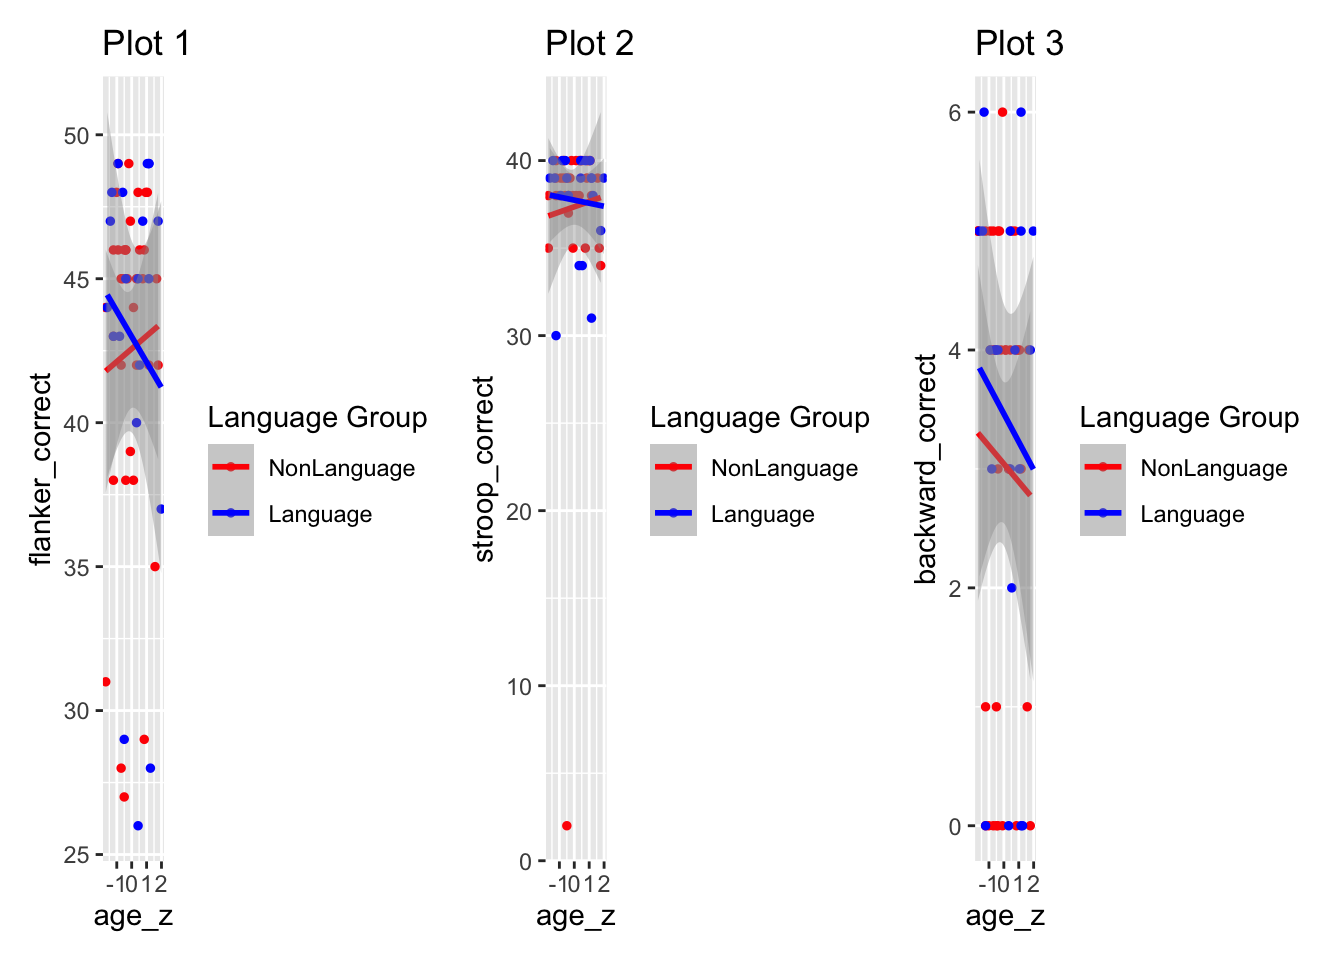
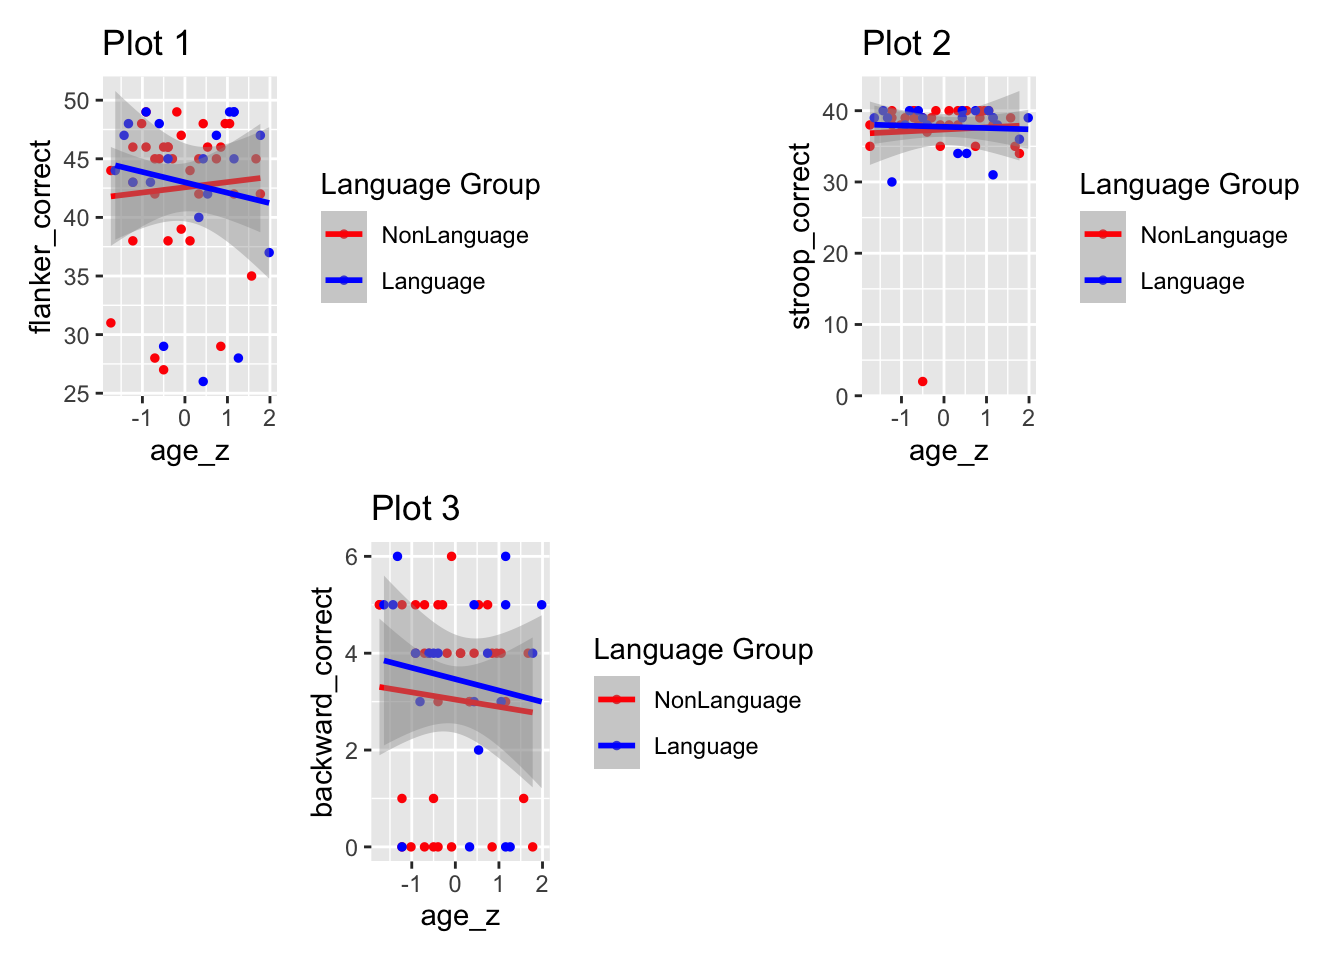
updated

Changed region(s): [[0.0, 0.0312, 0.9688, 0.9688], [0.3125, 0.9375, 0.375, 0.9688]]

diff --git a/docs/Diana-viz.html b/docs/Diana-viz.html
@@ -271,7 +271,7 @@ $(document).ready(function () {
 
 <h1 class="title toc-ignore">QP Data Analysis</h1>
 <h4 class="author">Diana Sanchez</h4>
-<h4 class="date">AJanuary 2023</h4>
+<h4 class="date">January 2023</h4>
 
 </div>
 
@@ -423,6 +423,13 @@ summary(m1)</code></pre>
 ## Residual standard error: 4.784 on 53 degrees of freedom
 ## Multiple R-squared:  0.2245, Adjusted R-squared:  0.1806 
 ## F-statistic: 5.115 on 3 and 53 DF,  p-value: 0.003503</code></pre>
+<pre class="r"><code>par(mfrow = c(2,2)) 
+plot(m1) </code></pre>
+<p><img src="Diana-viz_files/figure-html/unnamed-chunk-4-1.png" width="672" /></p>
+<pre class="r"><code>AIC(m1)</code></pre>
+<pre><code>## [1] 346.0536</code></pre>
+<pre class="r"><code>BIC(m1)</code></pre>
+<pre><code>## [1] 356.2689</code></pre>
 <pre class="r"><code>m2 = lm(stroop_correct ~ language * age * IQ, final_df)
 summary(m2)</code></pre>
 <pre><code>## 
@@ -447,6 +454,13 @@ summary(m2)</code></pre>
 ## Residual standard error: 4.825 on 49 degrees of freedom
 ## Multiple R-squared:  0.2707, Adjusted R-squared:  0.1665 
 ## F-statistic: 2.598 on 7 and 49 DF,  p-value: 0.02313</code></pre>
+<pre class="r"><code>par(mfrow = c(2,2)) 
+plot(m2) </code></pre>
+<p><img src="Diana-viz_files/figure-html/unnamed-chunk-4-2.png" width="672" /></p>
+<pre class="r"><code>AIC(m2)</code></pre>
+<pre><code>## [1] 350.5537</code></pre>
+<pre class="r"><code>BIC(m2)</code></pre>
+<pre><code>## [1] 368.9412</code></pre>
 <pre class="r"><code>m3 = lm(stroop_correct~group_language * age_z * iq_z, final_df)
 summary(m3)</code></pre>
 <pre><code>## 
@@ -651,38 +665,11 @@ plot3 &lt;- final_df %&gt;%
   scale_color_manual(labels = c(&quot;NonLanguage&quot;,&quot;Language&quot;),values = c(&quot;red&quot;,&quot;blue&quot;))
 
 library(patchwork)
-plot1 + plot2 + plot3</code></pre>
+(plot1 + plot_spacer() + plot2) / (plot_spacer() + plot3 + plot_spacer())  </code></pre>
 <pre><code>## `geom_smooth()` using formula &#39;y ~ x&#39;
 ## `geom_smooth()` using formula &#39;y ~ x&#39;
 ## `geom_smooth()` using formula &#39;y ~ x&#39;</code></pre>
 <p><img src="Diana-viz_files/figure-html/unnamed-chunk-5-1.png" width="672" /></p>
-<pre class="r"><code>plot_layout(ncol = 2)</code></pre>
-<pre><code>## $ncol
-## [1] 2
-## 
-## $nrow
-## NULL
-## 
-## $byrow
-## NULL
-## 
-## $widths
-## NULL
-## 
-## $heights
-## NULL
-## 
-## $guides
-## NULL
-## 
-## $tag_level
-## NULL
-## 
-## $design
-## NULL
-## 
-## attr(,&quot;class&quot;)
-## [1] &quot;plot_layout&quot;</code></pre>
 <pre class="r"><code>plot4 &lt;- final_df %&gt;% 
   ggplot()+
   aes(x = iq_z, y=flanker_correct,color=factor(group_language))+
@@ -938,15 +925,10 @@ background_survey_1</code></pre>
 ## 55         9-12 grade   16+ years                      French
 ## 56          4th grade   1-3 years                     English
 ## 57          5th grade 11-15 years                      German</code></pre>
-<pre class="r"><code>#background_survey_1$Experience = gsub(&quot; years&quot;,&quot;&quot;,background_survey_1$Experience)
-
-#library(stringr)
-#str_remove_all(background_survey_1$Experience, &quot; years&quot;)
-
-#reorder(background_survey_1$Experience,as.numeric(gsub(&quot;-\\d+&quot;,&quot;&quot;,background_survey_1$Experience)))
-
+<pre class="r"><code>#Reorganized years of experience in order on table
 background_survey_1$Experience = factor(background_survey_1$Experience,levels = c(&#39;1-3 years&#39;, &#39;4-6 years&#39;, &#39;7-10 years&#39;, &#39;11-15 years&#39;, &#39;16+ years&#39; ))
-library(table1)
+
+
 table1(~Bilingual + Age + Ethnicity + Experience | Gender , data = background_survey_1) </code></pre>
 <div class="Rtable1"><table class="Rtable1">
 <thead>
@@ -1342,6 +1324,10 @@ table1(~Bilingual + Age + Ethnicity + Experience | Gender , data = background_su
 </tr>
 </tbody>
 </table>
+</div>
+<div id="section" class="section level39">
+<p class="heading"></p>
+<p>This is old R coding. Before recommendations.</p>
 </div>
 </div>
 </div>
